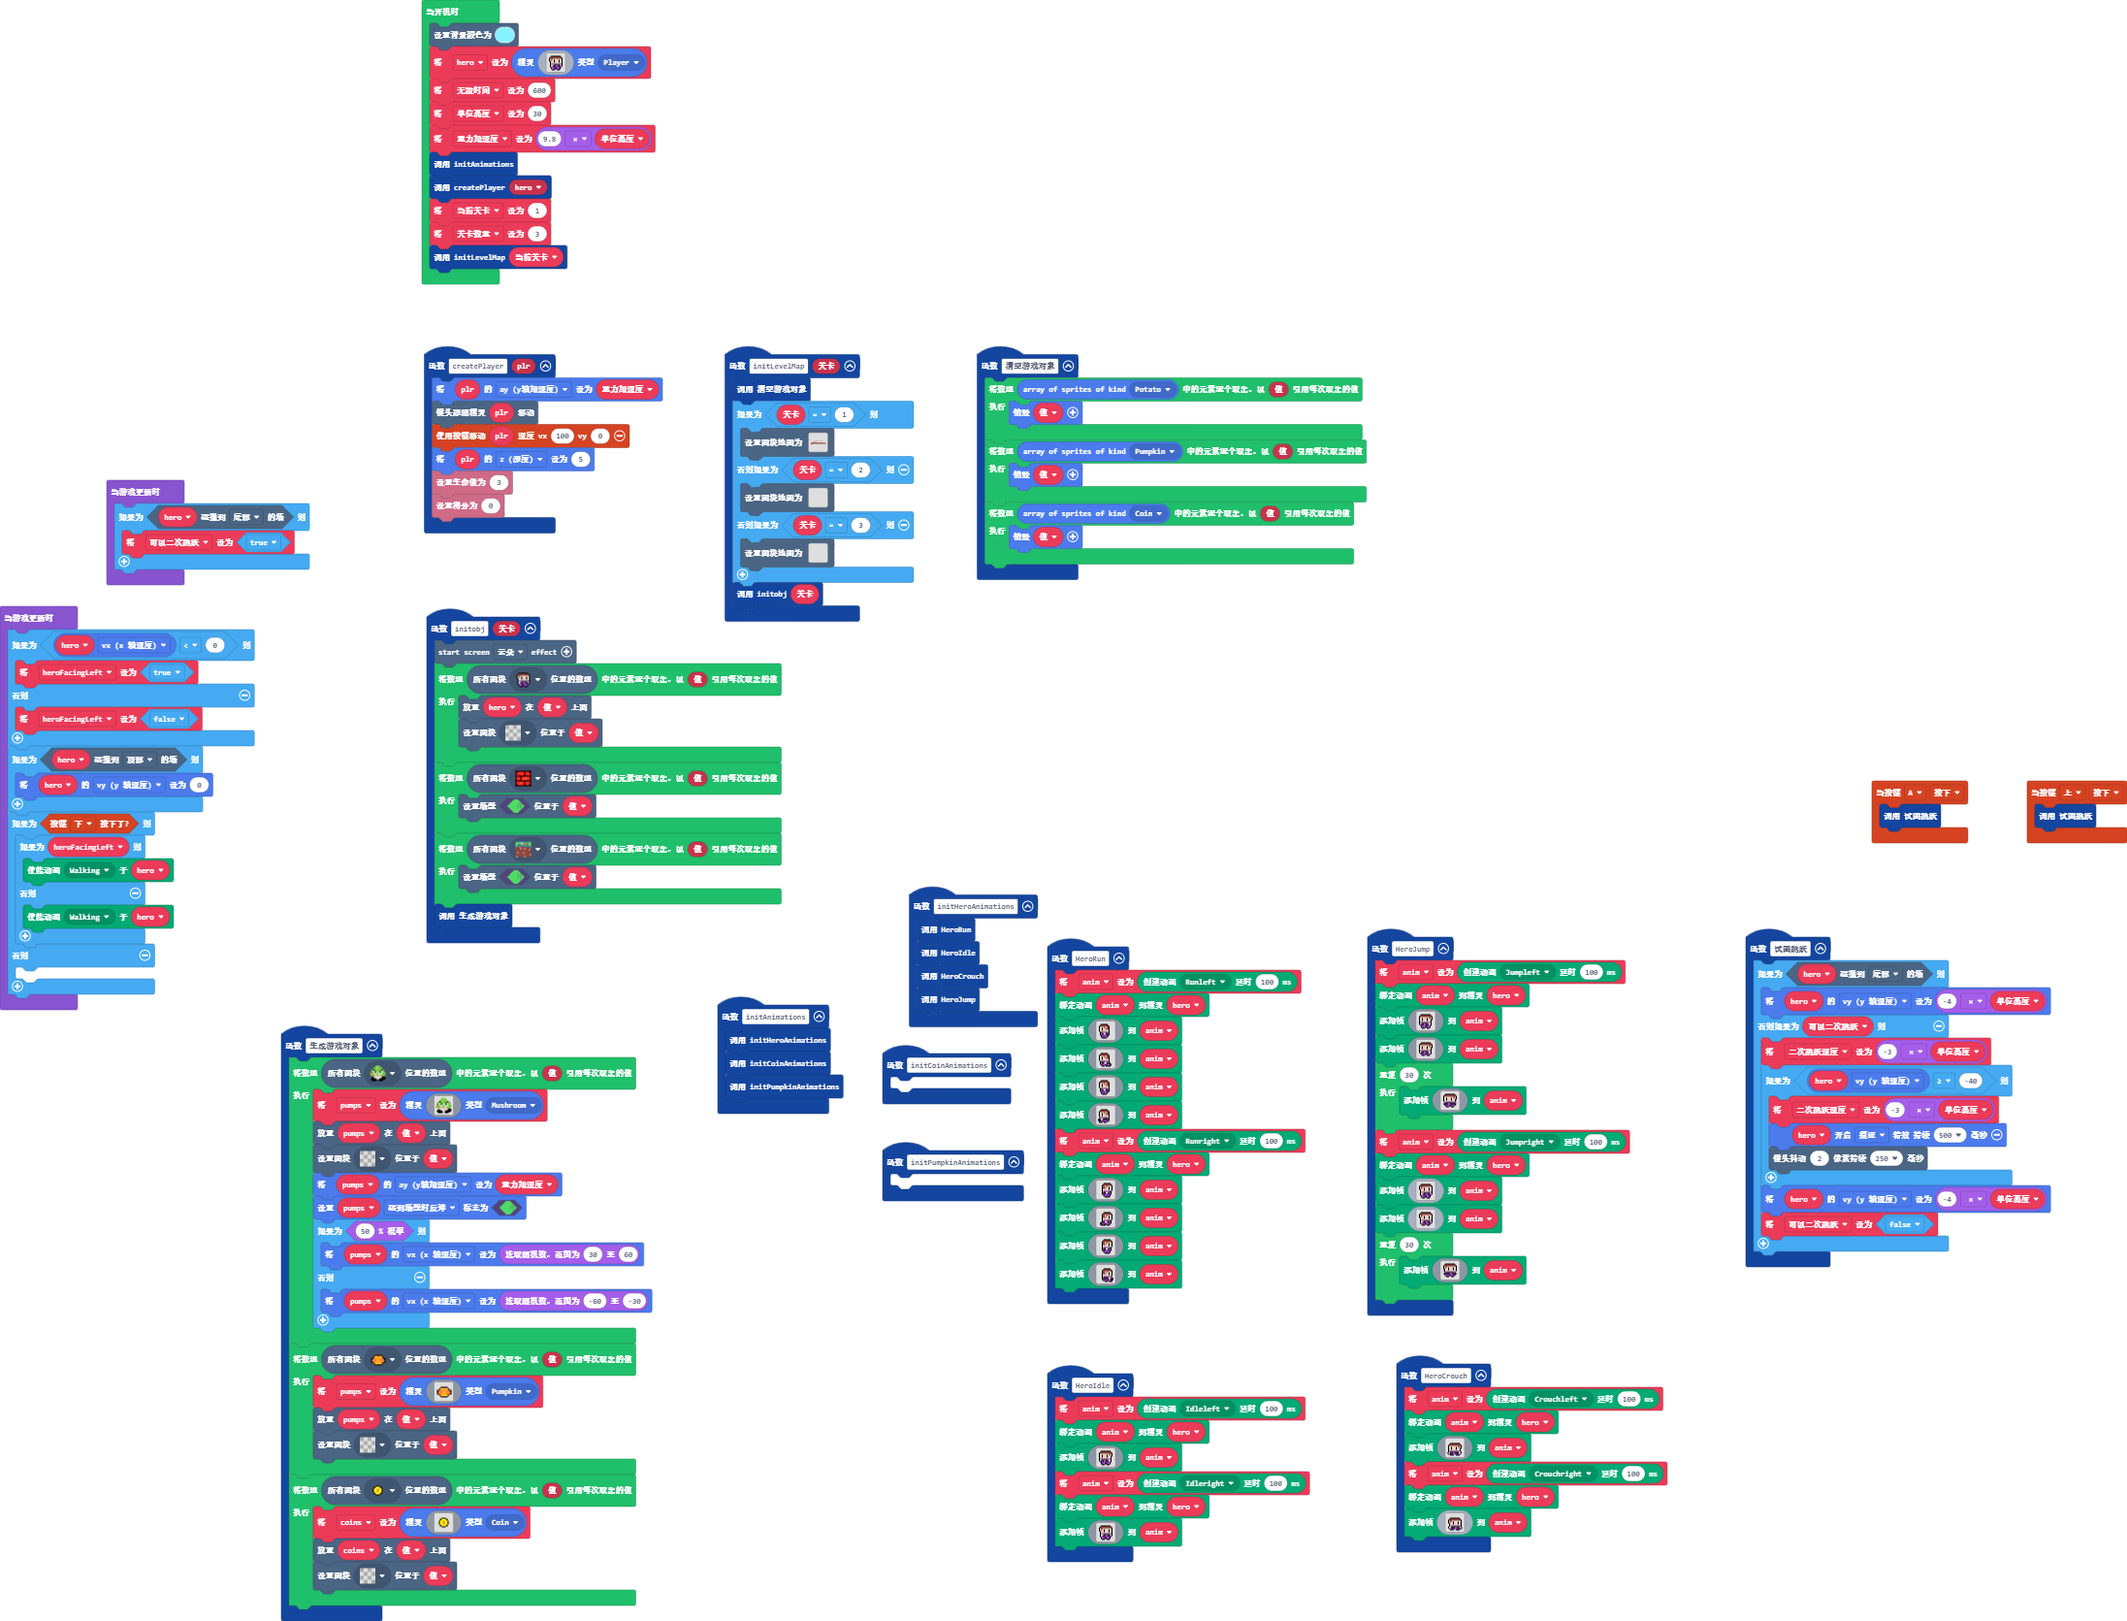
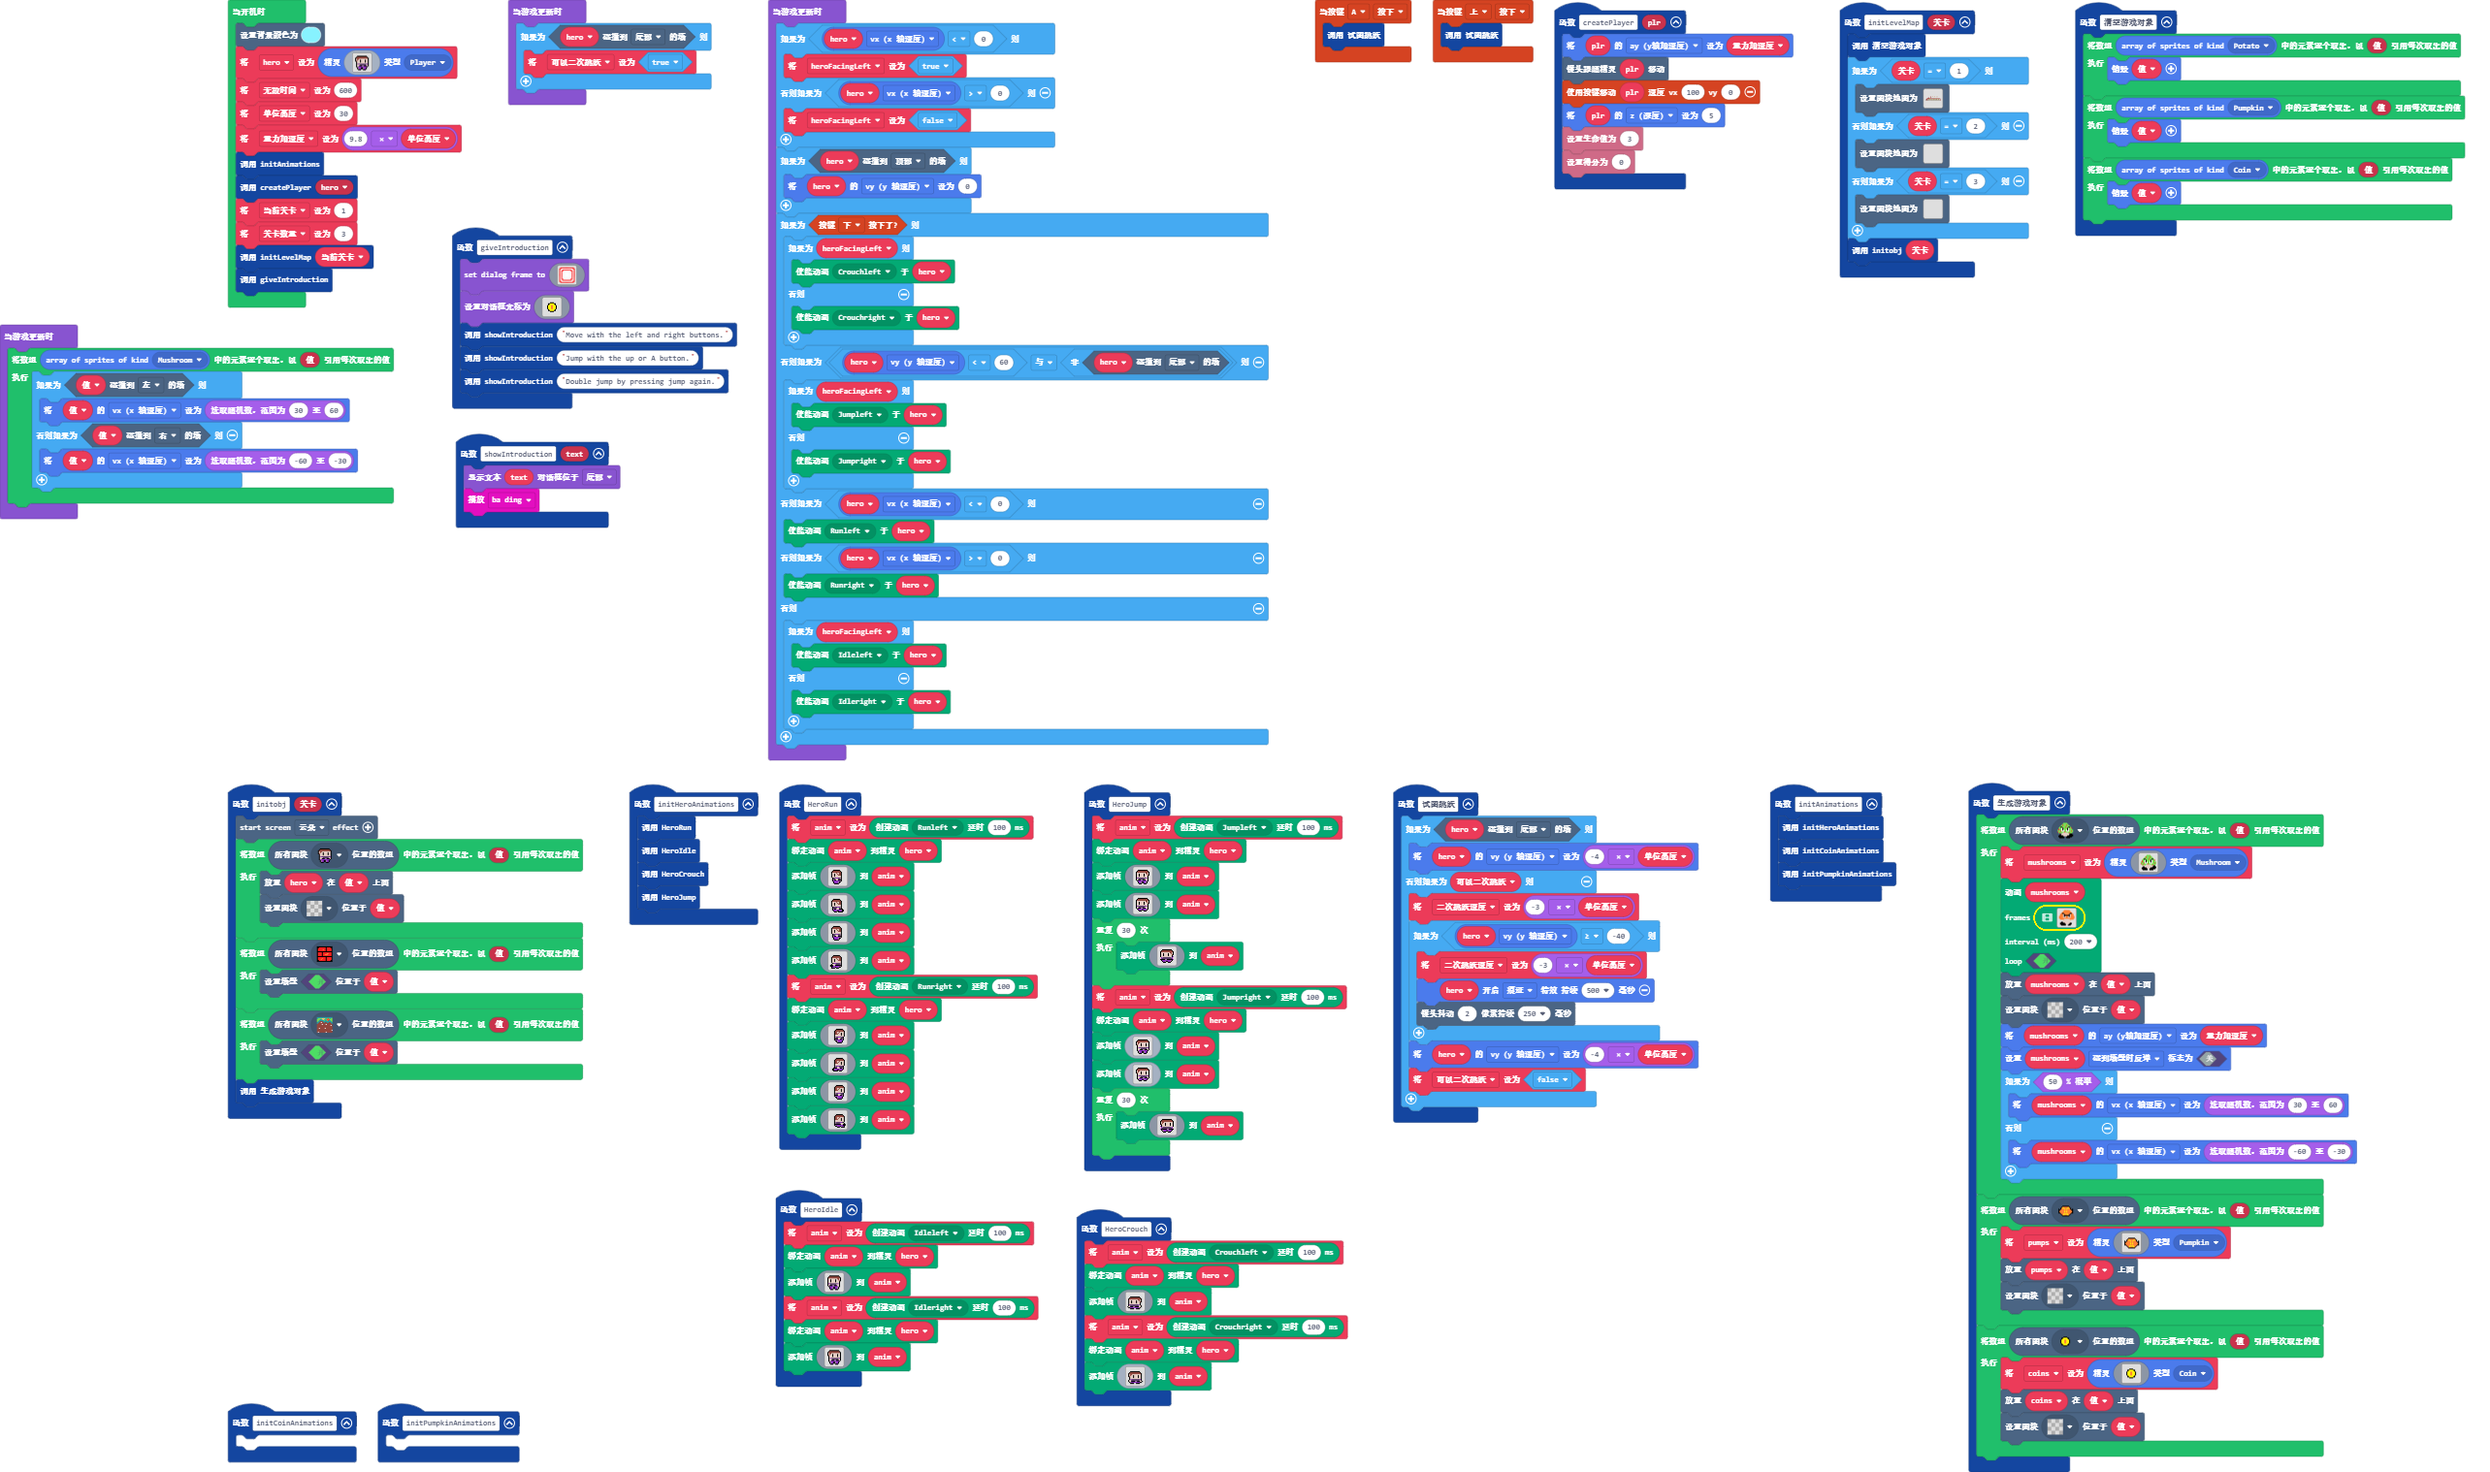
更新 main.blocks, main.ts, images.g.jres, images.g.ts

diff --git a/main.ts b/main.ts
@@ -25,6 +25,29 @@ function initHeroAnimations () {
     HeroCrouch()
     HeroJump()
 }
+function giveIntroduction () {
+    game.setDialogFrame(img`
+        . 2 2 2 2 2 2 2 2 2 2 2 2 2 . 
+        2 2 1 1 1 1 1 1 1 1 1 1 1 2 2 
+        2 1 1 2 2 2 2 2 2 2 2 2 1 1 2 
+        2 1 2 2 1 1 1 1 1 1 1 2 2 1 2 
+        2 1 2 1 1 1 1 1 1 1 1 1 2 1 2 
+        2 1 2 1 1 1 1 1 1 1 1 1 2 1 2 
+        2 1 2 1 1 1 1 1 1 1 1 1 2 1 2 
+        2 1 2 1 1 1 1 1 1 1 1 1 2 1 2 
+        2 1 2 1 1 1 1 1 1 1 1 1 2 1 2 
+        2 1 2 1 1 1 1 1 1 1 1 1 2 1 2 
+        2 1 2 1 1 1 1 1 1 1 1 1 2 1 2 
+        2 1 2 2 1 1 1 1 1 1 1 2 2 1 2 
+        2 1 1 2 2 2 2 2 2 2 2 2 1 1 2 
+        2 2 1 1 1 1 1 1 1 1 1 1 1 2 2 
+        . 2 2 2 2 2 2 2 2 2 2 2 2 2 . 
+        `)
+    game.setDialogCursor(assets.tile`myTile6`)
+    showIntroduction("Move with the left and right buttons.")
+    showIntroduction("Jump with the up or A button.")
+    showIntroduction("Double jump by pressing jump again.")
+}
 controller.up.onEvent(ControllerButtonEvent.Pressed, function () {
     试图跳跃()
 })
@@ -55,15 +78,55 @@ controller.A.onEvent(ControllerButtonEvent.Pressed, function () {
 })
 function 生成游戏对象 () {
     for (let 值 of tiles.getTilesByType(assets.tile`myTile3`)) {
-        pumps = sprites.create(assets.tile`myTile3`, SpriteKind.Mushroom)
-        tiles.placeOnTile(pumps, 值)
+        mushrooms = sprites.create(assets.tile`myTile3`, SpriteKind.Mushroom)
+        animation.runImageAnimation(
+        mushrooms,
+        [img`
+            . . . . . 4 4 4 4 4 4 . . . . . 
+            . . . . 4 4 4 4 4 4 4 4 . . . . 
+            . . . 4 4 4 4 4 4 4 4 4 4 . . . 
+            . . 4 f f 4 4 4 4 4 4 f f 4 . . 
+            . 4 4 4 d f 4 4 4 4 f d 4 4 4 . 
+            . 4 4 4 d f f f f f f d 4 4 4 . 
+            4 4 4 4 d f d 4 4 d f d 4 4 4 4 
+            4 4 4 4 d d d 4 4 d d d 4 4 4 4 
+            4 4 4 4 4 4 4 4 4 4 4 4 4 4 4 4 
+            . 4 4 4 4 d d d d d d 4 4 4 4 . 
+            . . . . d d d d d d d d . . . . 
+            . . . . d d d d d d d d . . . . 
+            . . f f d d d d d d d d . . . . 
+            . f f f f f d d d d d f f . . . 
+            . f f f f f f d d d f f f . . . 
+            . . f f f f f . . f f f . . . . 
+            `,img`
+            . . . . . 4 4 4 4 4 4 . . . . . 
+            . . . . 4 4 4 4 4 4 4 4 . . . . 
+            . . . 4 4 4 4 4 4 4 4 4 4 . . . 
+            . . 4 f f 4 4 4 4 4 4 f f 4 . . 
+            . 4 4 4 d f 4 4 4 4 f d 4 4 4 . 
+            . 4 4 4 d f f f f f f d 4 4 4 . 
+            4 4 4 4 d f d 4 4 d f d 4 4 4 4 
+            4 4 4 4 d d d 4 4 d d d 4 4 4 4 
+            4 4 4 4 4 4 4 4 4 4 4 4 4 4 4 4 
+            . 4 4 4 4 d d d d d d 4 4 4 4 . 
+            . . . . d d d d d d d d . . . . 
+            . . . . d d d d d d d d . . . . 
+            . . . . d d d d d d d d f f . . 
+            . . . f f d d d d d f f f f f . 
+            . . . f f f d d d f f f f f f . 
+            . . . . f f f . . f f f f f . . 
+            `],
+        200,
+        true
+        )
+        tiles.placeOnTile(mushrooms, 值)
         tiles.setTileAt(值, assets.tile`transparency16`)
-        pumps.ay = 重力加速度
-        pumps.setFlag(SpriteFlag.BounceOnWall, true)
+        mushrooms.ay = 重力加速度
+        mushrooms.setFlag(SpriteFlag.BounceOnWall, false)
         if (Math.percentChance(50)) {
-            pumps.vx = randint(30, 60)
+            mushrooms.vx = randint(30, 60)
         } else {
-            pumps.vx = randint(-60, -30)
+            mushrooms.vx = randint(-60, -30)
         }
     }
     for (let 值 of tiles.getTilesByType(assets.tile`myTile5`)) {
@@ -304,6 +367,10 @@ function HeroIdle () {
         . . . . f f f . . f f f . . . . 
         `)
 }
+function showIntroduction (text: string) {
+    game.showLongText(text, DialogLayout.Bottom)
+    music.baDing.play()
+}
 function 清空游戏对象 () {
     for (let 值 of sprites.allOfKind(SpriteKind.Potato)) {
         值.destroy()
@@ -480,6 +547,7 @@ let heroFacingLeft = false
 let anim: animation.Animation = null
 let coins: Sprite = null
 let pumps: Sprite = null
+let mushrooms: Sprite = null
 let 二次跳跃速度 = 0
 let 可以二次跳跃 = false
 let 重力加速度 = 0
@@ -512,6 +580,7 @@ createPlayer(hero)
 let 当前关卡 = 1
 let 关卡数量 = 3
 initLevelMap(当前关卡)
+giveIntroduction()
 game.onUpdate(function () {
     if (hero.isHittingTile(CollisionDirection.Bottom)) {
         可以二次跳跃 = true
@@ -520,7 +589,7 @@ game.onUpdate(function () {
 game.onUpdate(function () {
     if (hero.vx < 0) {
         heroFacingLeft = true
-    } else {
+    } else if (hero.vx > 0) {
         heroFacingLeft = false
     }
     if (hero.isHittingTile(CollisionDirection.Top)) {
@@ -528,11 +597,34 @@ game.onUpdate(function () {
     }
     if (controller.down.isPressed()) {
         if (heroFacingLeft) {
-            animation.setAction(hero, ActionKind.Walking)
+            animation.setAction(hero, ActionKind.Crouchleft)
         } else {
-            animation.setAction(hero, ActionKind.Walking)
+            animation.setAction(hero, ActionKind.Crouchright)
         }
+    } else if (hero.vy < 60 && !(hero.isHittingTile(CollisionDirection.Bottom))) {
+        if (heroFacingLeft) {
+            animation.setAction(hero, ActionKind.Jumpleft)
+        } else {
+            animation.setAction(hero, ActionKind.Jumpright)
+        }
+    } else if (hero.vx < 0) {
+        animation.setAction(hero, ActionKind.Runleft)
+    } else if (hero.vx > 0) {
+        animation.setAction(hero, ActionKind.Runright)
     } else {
-    	
+        if (heroFacingLeft) {
+            animation.setAction(hero, ActionKind.Idleleft)
+        } else {
+            animation.setAction(hero, ActionKind.Idleright)
+        }
+    }
+})
+game.onUpdate(function () {
+    for (let 值 of sprites.allOfKind(SpriteKind.Mushroom)) {
+        if (值.isHittingTile(CollisionDirection.Left)) {
+            值.vx = randint(30, 60)
+        } else if (值.isHittingTile(CollisionDirection.Right)) {
+            值.vx = randint(-60, -30)
+        }
     }
 })

diff --git a/images.g.ts b/images.g.ts
@@ -237,42 +237,6 @@ f d d f f f b b f f f f d d f .
 . . f b a a a a a a a a a f f . 
 . . . f f f f . . f f f f . . . 
 `;
-            case "image6":return img`
-. . . . . . . . . . . . . . . . 
-. . . f f f f f f f . . . . . . 
-. . f e e e e e e e f . . . . . 
-. f e e e e e e e e e f . . . . 
-. f d d d d e d d e e f . . . . 
-. f d d f d d e d e e f . . . . 
-. f d d f d d d e e e f . . . . 
-. f d d f d d d d d d f . . . . 
-. f d d d d d d d d d f . . . . 
-. . f c c c a a c c b f . . . . 
-. . f c c d d d c c b f . . . . 
-. . f b f f d d f f f f . . . . 
-. . f a a a a a a a b f . . . . 
-. . . f a a a a b f f . . . . . 
-. . . f a a a a b f . . . . . . 
-. . . . f f f f f . . . . . . . 
-`;
-            case "image15":return img`
-. . . . . . . . . . . . . . . . 
-. . . . . . . . . . . . . . . . 
-. . . f f f f f f f . . . . . . 
-. . f e e e e e e e f . . . . . 
-. f e e e e e e e e e f . . . . 
-. f d d d d e d d e e f . . . . 
-. f d d f d d e d e e f . . . . 
-. f d d f d d d e e e f . . . . 
-. f d d f d d d d d d f . . . . 
-. f d d d d d d d d d f . . . . 
-. . f c c c c a a c b f . . . . 
-. . f c c c c d d c b f . . . . 
-. . f b f f d d d f f f f . . . 
-. . f a a a a a a a a b f f . . 
-. . . f a a b f f a a a f f . . 
-. . . . f f f . f f f f f . . . 
-`;
             case "image22":return img`
 . . . . . . . . . . . . . . . . 
 . . . f f f f f f f f f f . . . 
@@ -381,13 +345,64 @@ f d d f f f b b f f f f d d f .
 . . . . f f f . . f f f . . . . 
 . . . . . . . . . . . . . . . . 
 `;
+            case "image21":return img`
+. 2 2 2 2 2 2 2 2 2 2 2 2 2 . 
+2 2 1 1 1 1 1 1 1 1 1 1 1 2 2 
+2 1 1 2 2 2 2 2 2 2 2 2 1 1 2 
+2 1 2 2 1 1 1 1 1 1 1 2 2 1 2 
+2 1 2 1 1 1 1 1 1 1 1 1 2 1 2 
+2 1 2 1 1 1 1 1 1 1 1 1 2 1 2 
+2 1 2 1 1 1 1 1 1 1 1 1 2 1 2 
+2 1 2 1 1 1 1 1 1 1 1 1 2 1 2 
+2 1 2 1 1 1 1 1 1 1 1 1 2 1 2 
+2 1 2 1 1 1 1 1 1 1 1 1 2 1 2 
+2 1 2 1 1 1 1 1 1 1 1 1 2 1 2 
+2 1 2 2 1 1 1 1 1 1 1 2 2 1 2 
+2 1 1 2 2 2 2 2 2 2 2 2 1 1 2 
+2 2 1 1 1 1 1 1 1 1 1 1 1 2 2 
+. 2 2 2 2 2 2 2 2 2 2 2 2 2 . 
+`;
         }
         return null;
     })
 
     helpers._registerFactory("animation", function(name: string) {
         switch(helpers.stringTrim(name)) {
-
+            case "anim1":return [img`
+. . . . . 4 4 4 4 4 4 . . . . . 
+. . . . 4 4 4 4 4 4 4 4 . . . . 
+. . . 4 4 4 4 4 4 4 4 4 4 . . . 
+. . 4 f f 4 4 4 4 4 4 f f 4 . . 
+. 4 4 4 d f 4 4 4 4 f d 4 4 4 . 
+. 4 4 4 d f f f f f f d 4 4 4 . 
+4 4 4 4 d f d 4 4 d f d 4 4 4 4 
+4 4 4 4 d d d 4 4 d d d 4 4 4 4 
+4 4 4 4 4 4 4 4 4 4 4 4 4 4 4 4 
+. 4 4 4 4 d d d d d d 4 4 4 4 . 
+. . . . d d d d d d d d . . . . 
+. . . . d d d d d d d d . . . . 
+. . f f d d d d d d d d . . . . 
+. f f f f f d d d d d f f . . . 
+. f f f f f f d d d f f f . . . 
+. . f f f f f . . f f f . . . . 
+`, img`
+. . . . . 4 4 4 4 4 4 . . . . . 
+. . . . 4 4 4 4 4 4 4 4 . . . . 
+. . . 4 4 4 4 4 4 4 4 4 4 . . . 
+. . 4 f f 4 4 4 4 4 4 f f 4 . . 
+. 4 4 4 d f 4 4 4 4 f d 4 4 4 . 
+. 4 4 4 d f f f f f f d 4 4 4 . 
+4 4 4 4 d f d 4 4 d f d 4 4 4 4 
+4 4 4 4 d d d 4 4 d d d 4 4 4 4 
+4 4 4 4 4 4 4 4 4 4 4 4 4 4 4 4 
+. 4 4 4 4 d d d d d d 4 4 4 4 . 
+. . . . d d d d d d d d . . . . 
+. . . . d d d d d d d d . . . . 
+. . . . d d d d d d d d f f . . 
+. . . f f d d d d d f f f f f . 
+. . . f f f d d d f f f f f f . 
+. . . . f f f . . f f f f f . . 
+`];
         }
         return null;
     })
